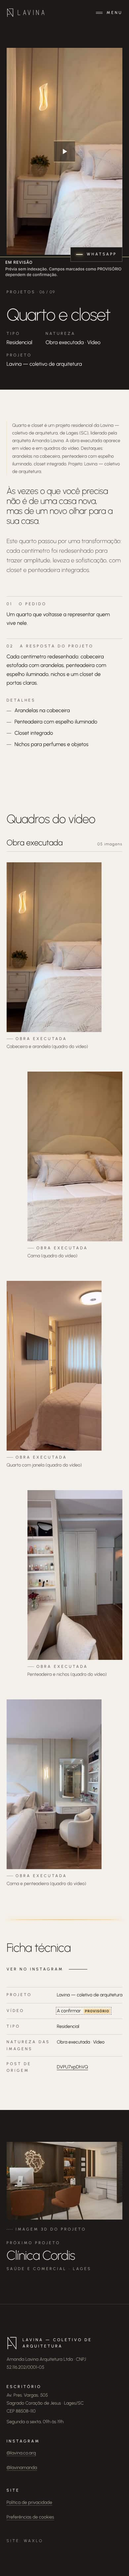
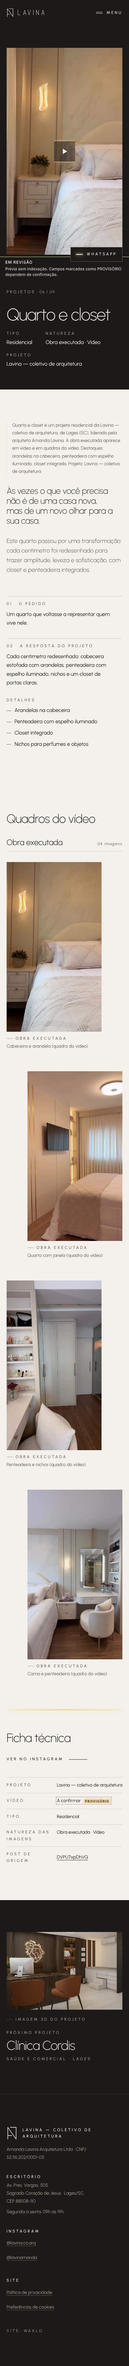
Pendências: quadro repetido do quarto fora da galeria e itens já resolvidos marcados
- Quarto e closet: fica o quadro 01 (arandela acesa); o 02, quase igual, sai da galeria. Farmhouse 03 e 04 conferidos: são diferentes e ficam.
- PENDENCIAS.md: grão, comparador, WhatsApp, menu, SEO 54, mapa, páginas do menu e fallback marcados como resolvidos, com a sessão em que foram fechados.
- Capturas finais do Quarto e closet refeitas; COMPLIANCE.md com 134 mídias publicadas.

Claude-Session: https://claude.ai/code/session_01LKUAgRsiThXz3V5LtqaCn9

diff --git a/docs/PENDENCIAS.md b/docs/PENDENCIAS.md
@@ -26,7 +26,7 @@ Itens que não travam o trabalho, mas precisam de decisão ou dado. Cada sessão
 - **Projetos que só existem em vídeo** (living/jantar paramétrico, quarto e closet, cozinha farmhouse) ganharam ids provisórios no manifesto (`living-jantar-painel`, `quarto-closet`, `cozinha-farmhouse`) e não têm créditos de projeto próprios além de "Lavina | Coletivo de Arquitetura"; confirmar cidade/ano/créditos (sessão 2).
 - **Lista completa do que pedir ao João:** `docs/MIDIA_CATALOGO.md`, seção final.
 - **Verticais não corrigidas** em 627064897, 627098371, 641767635, 729424348, 730513804 e 641226479: a estimativa automática pedia cortar 20–50% da foto. Corrigidas (35%) só 625681099, 627664561 e 728943785. Para as demais, marcar linhas verticais à mão numa sessão L, se o João quiser.
-- **Quadros quase repetidos:** `quadro-mostrando-quarto-01/02` e `quadro-novo-modelo-03/04` são muito parecidos; escolher um de cada na sessão 6.
+- ~~**Quadros quase repetidos:** `quadro-mostrando-quarto-01/02` e `quadro-novo-modelo-03/04` são muito parecidos; escolher um de cada na sessão 6.~~ Resolvido em 23/10: no Quarto e closet ficou o quadro 01 (arandela acesa e criado-mudo) e o 02 saiu da galeria; na Farmhouse, o 03 e o 04 mostram paredes diferentes (o 04 tem a TV e o LED do rodapé) e ficam os dois.
 
 ## Sessão 2 — Config e travas
 
@@ -38,15 +38,15 @@ Itens que não travam o trabalho, mas precisam de decisão ou dado. Cada sessão
 ## Sessão 3 — Marca e design system
 
 - **Logo reconstruído**: validar com a Amanda (traços e subtítulo em Comfortaa Light); trocar pelo arquivo original se existir. Ver `docs/MARCA.md`.
-- **Grão** disponível e desligado por padrão; decidir na home (sessão 6A).
-- **Comparador**: estrutura e acessibilidade prontas; comportamento (arrastar, sincronizar com o range) na sessão 6B.
+- ~~**Grão** disponível e desligado por padrão; decidir na home (sessão 6A).~~ Resolvido na sessão 6A: fica desligado (nenhuma página liga `<Base grao>`).
+- ~~**Comparador**: estrutura e acessibilidade prontas; comportamento (arrastar, sincronizar com o range) na sessão 6B.~~ Resolvido nas sessões 6A/6B: arraste, teclado e range sincronizados (`test:home`).
 
 ## Sessão 4 — Entrada e abertura
 
 - **Copy provisória da abertura**: tese literal da bio ("Arquitetura com presença em cada etapa."); subtítulo "Interiores, iluminação e acompanhamento de obra. Lages e Litoral Catarinense." (cidades da config). Revisar na sessão 5.
-- **Mensagem do WhatsApp** neutra ("Tipo de projeto: ___ · Cidade: ___"), sem dado sensível; revisar na sessão 7 (LGPD).
-- **Links do menu** (/projetos/, /processo/, /coletivo/, /contato/) apontam para páginas das sessões 6B e 6C.
-- **SEO 54 no Lighthouse** por noindex (preview) e falta de meta description: resolve nas sessões 5/8 e com o domínio.
+- ~~**Mensagem do WhatsApp** neutra ("Tipo de projeto: ___ · Cidade: ___"), sem dado sensível; revisar na sessão 7 (LGPD).~~ Resolvido na sessão 7: sem dado sensível, conferido em `test:consentimento`.
+- ~~**Links do menu** (/projetos/, /processo/, /coletivo/, /contato/) apontam para páginas das sessões 6B e 6C.~~ Resolvido nas sessões 6B/6C: as quatro páginas existem (`verificar-links`: 0 quebrados).
+- ~~**SEO 54 no Lighthouse** por noindex (preview) e falta de meta description: resolve nas sessões 5/8 e com o domínio.~~ Resolvido na sessão 8: meta description em todas as páginas; o SEO 69 restante é só o noindex do preview.
 
 ## Sessão 5 — Textos
 
@@ -62,12 +62,12 @@ Itens que não travam o trabalho, mas precisam de decisão ou dado. Cada sessão
 - **Autoria de fotos e vídeos de obra**: aparece "A confirmar" na ficha técnica (selo PROVISÓRIO no preview) em todos os projetos com foto ou vídeo.
 - **Cordis e T|B**: a página diz que a obra foi executada e que as fotos ainda não estão no site (decisão 5 do copy deck). A citação "Executado ficou tão lindo quanto." da Cordis só entra com a foto da obra.
 - **Quem apresenta o vídeo do quarto e closet**: a legenda do vídeo não nomeia ninguém até confirmar.
-- **Fallback das View Transitions**: testado só no Chromium, emulando um navegador sem `@view-transition`. Conferir em Firefox e Safari reais na sessão 9. → Feito na sessão 9 (CI): Firefox usa o fallback de verdade; WebKit faz a transição.
-- **Páginas do menu** /processo/, /coletivo/ e /contato/: construídas na sessão 6C.
+- ~~**Fallback das View Transitions**: testado só no Chromium, emulando um navegador sem `@view-transition`. Conferir em Firefox e Safari reais na sessão 9. → Feito na sessão 9 (CI): Firefox usa o fallback de verdade; WebKit faz a transição.~~ Resolvido na sessão 9 (CI).
+- ~~**Páginas do menu** /processo/, /coletivo/ e /contato/: construídas na sessão 6C.~~ Resolvido na sessão 6C.
 
 ## Sessão 6C — Processo, coletivo, contato e 404
 
-- **Mapa incorporado em /contato**: feito na sessão 7 (iframe só depois do consentimento "mapas").
+- ~~**Mapa incorporado em /contato**: feito na sessão 7 (iframe só depois do consentimento "mapas").~~ Resolvido na sessão 7.
 - **Stills de obra em /processo**: três quadros novos do vídeo `um-dia-no-escritorio` (galpão), escolhidos sem rosto de terceiros. O primeiro foi recortado para tirar o carro e a placa (registrado em `docs/dados/stills.json` e no manifesto). A obra do vídeo não é identificada como projeto; os quadros levam o rótulo "Vídeo".
 - **CAU e formação** de Amanda, Renata e Lara: não aparecem em /coletivo enquanto pendentes. Quando confirmados em `src/config/pessoas.ts`, entram sozinhos (Formação e CAU sob o texto de cada uma).
 - **Linha sobre IA no processo** (decisão 10 do copy deck): aparece em /processo, discreta, como na home.

diff --git a/docs/COMPLIANCE.md b/docs/COMPLIANCE.md
@@ -3,7 +3,7 @@
 Gerado por `pnpm audit-compliance` (modo preview) sobre `dist/`. Não edite à mão.
 
 - Páginas lidas: 18
-- Mídias de projeto conferidas: 135
+- Mídias de projeto conferidas: 134
 - Termos vetados encontrados: 0
 - Mídias sem rótulo de natureza: 0
 - Resultado: **ok**
